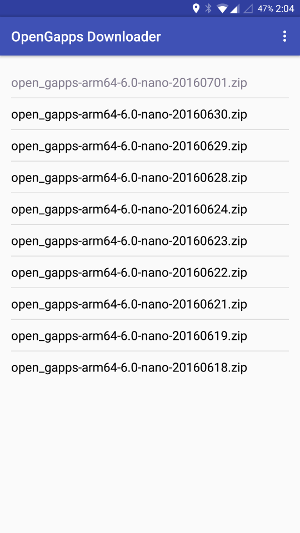
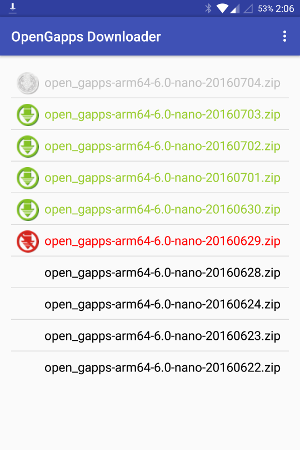
update colors add screenshot

Changed region(s): [[0.0, 0.0, 1.0, 0.7778], [0.15, 0.8089, 0.93, 0.84], [0.9, 0.1556, 0.93, 0.2178]]

diff --git a/README.md b/README.md
@@ -4,6 +4,12 @@ Stable versions are available through F-Droid:
 <a href="https://f-droid.org/repository/browse/?fdid=org.opengappsdownloader"><img
       alt="Available on F-Droid" height="45" src="https://raw.githubusercontent.com/daktak/androidpn-client/master/screenshots/fdroid.png" /></a>
 
+## MD5
+* Green - Verified md5
+* Red - Incorrect or download in progress 
+* Grey - Unable to determine md5
+
 ![Alt text](screenshots/ss.png?raw=true "OpenGapps Downloader")
 
 Bitcoin donations 16VEzu37BePgR3o9hAciZkGK2VCAQFE28r
+
